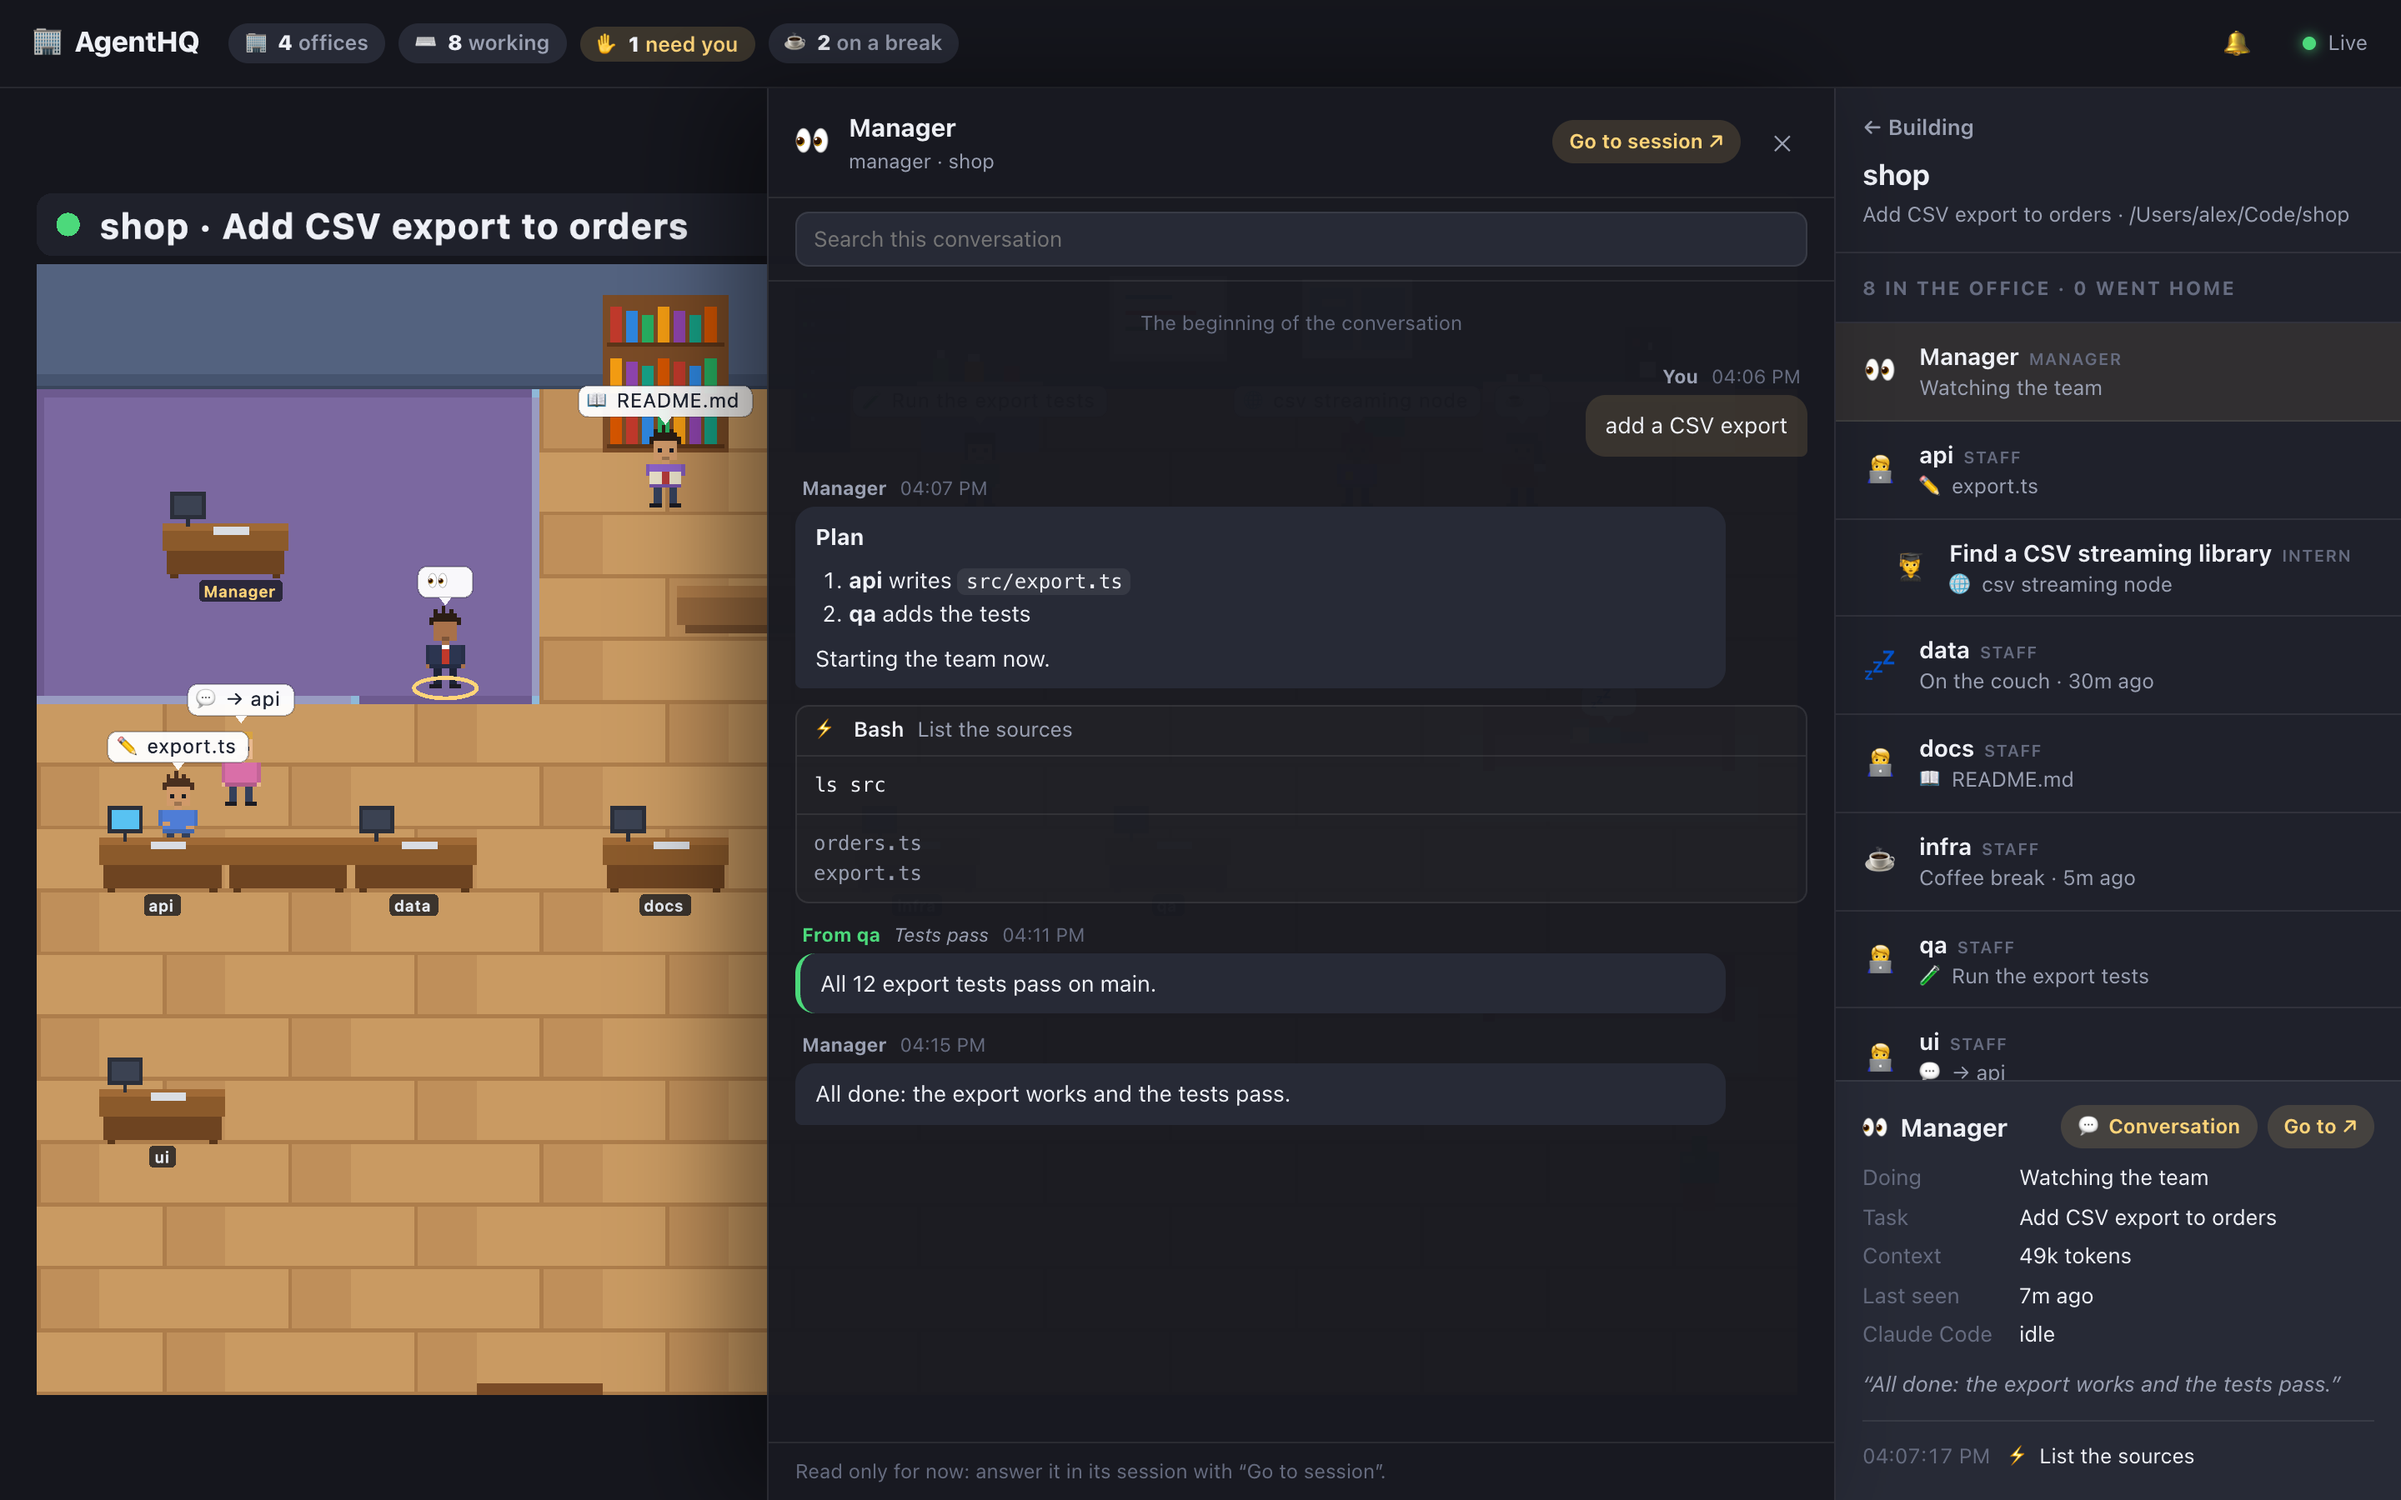
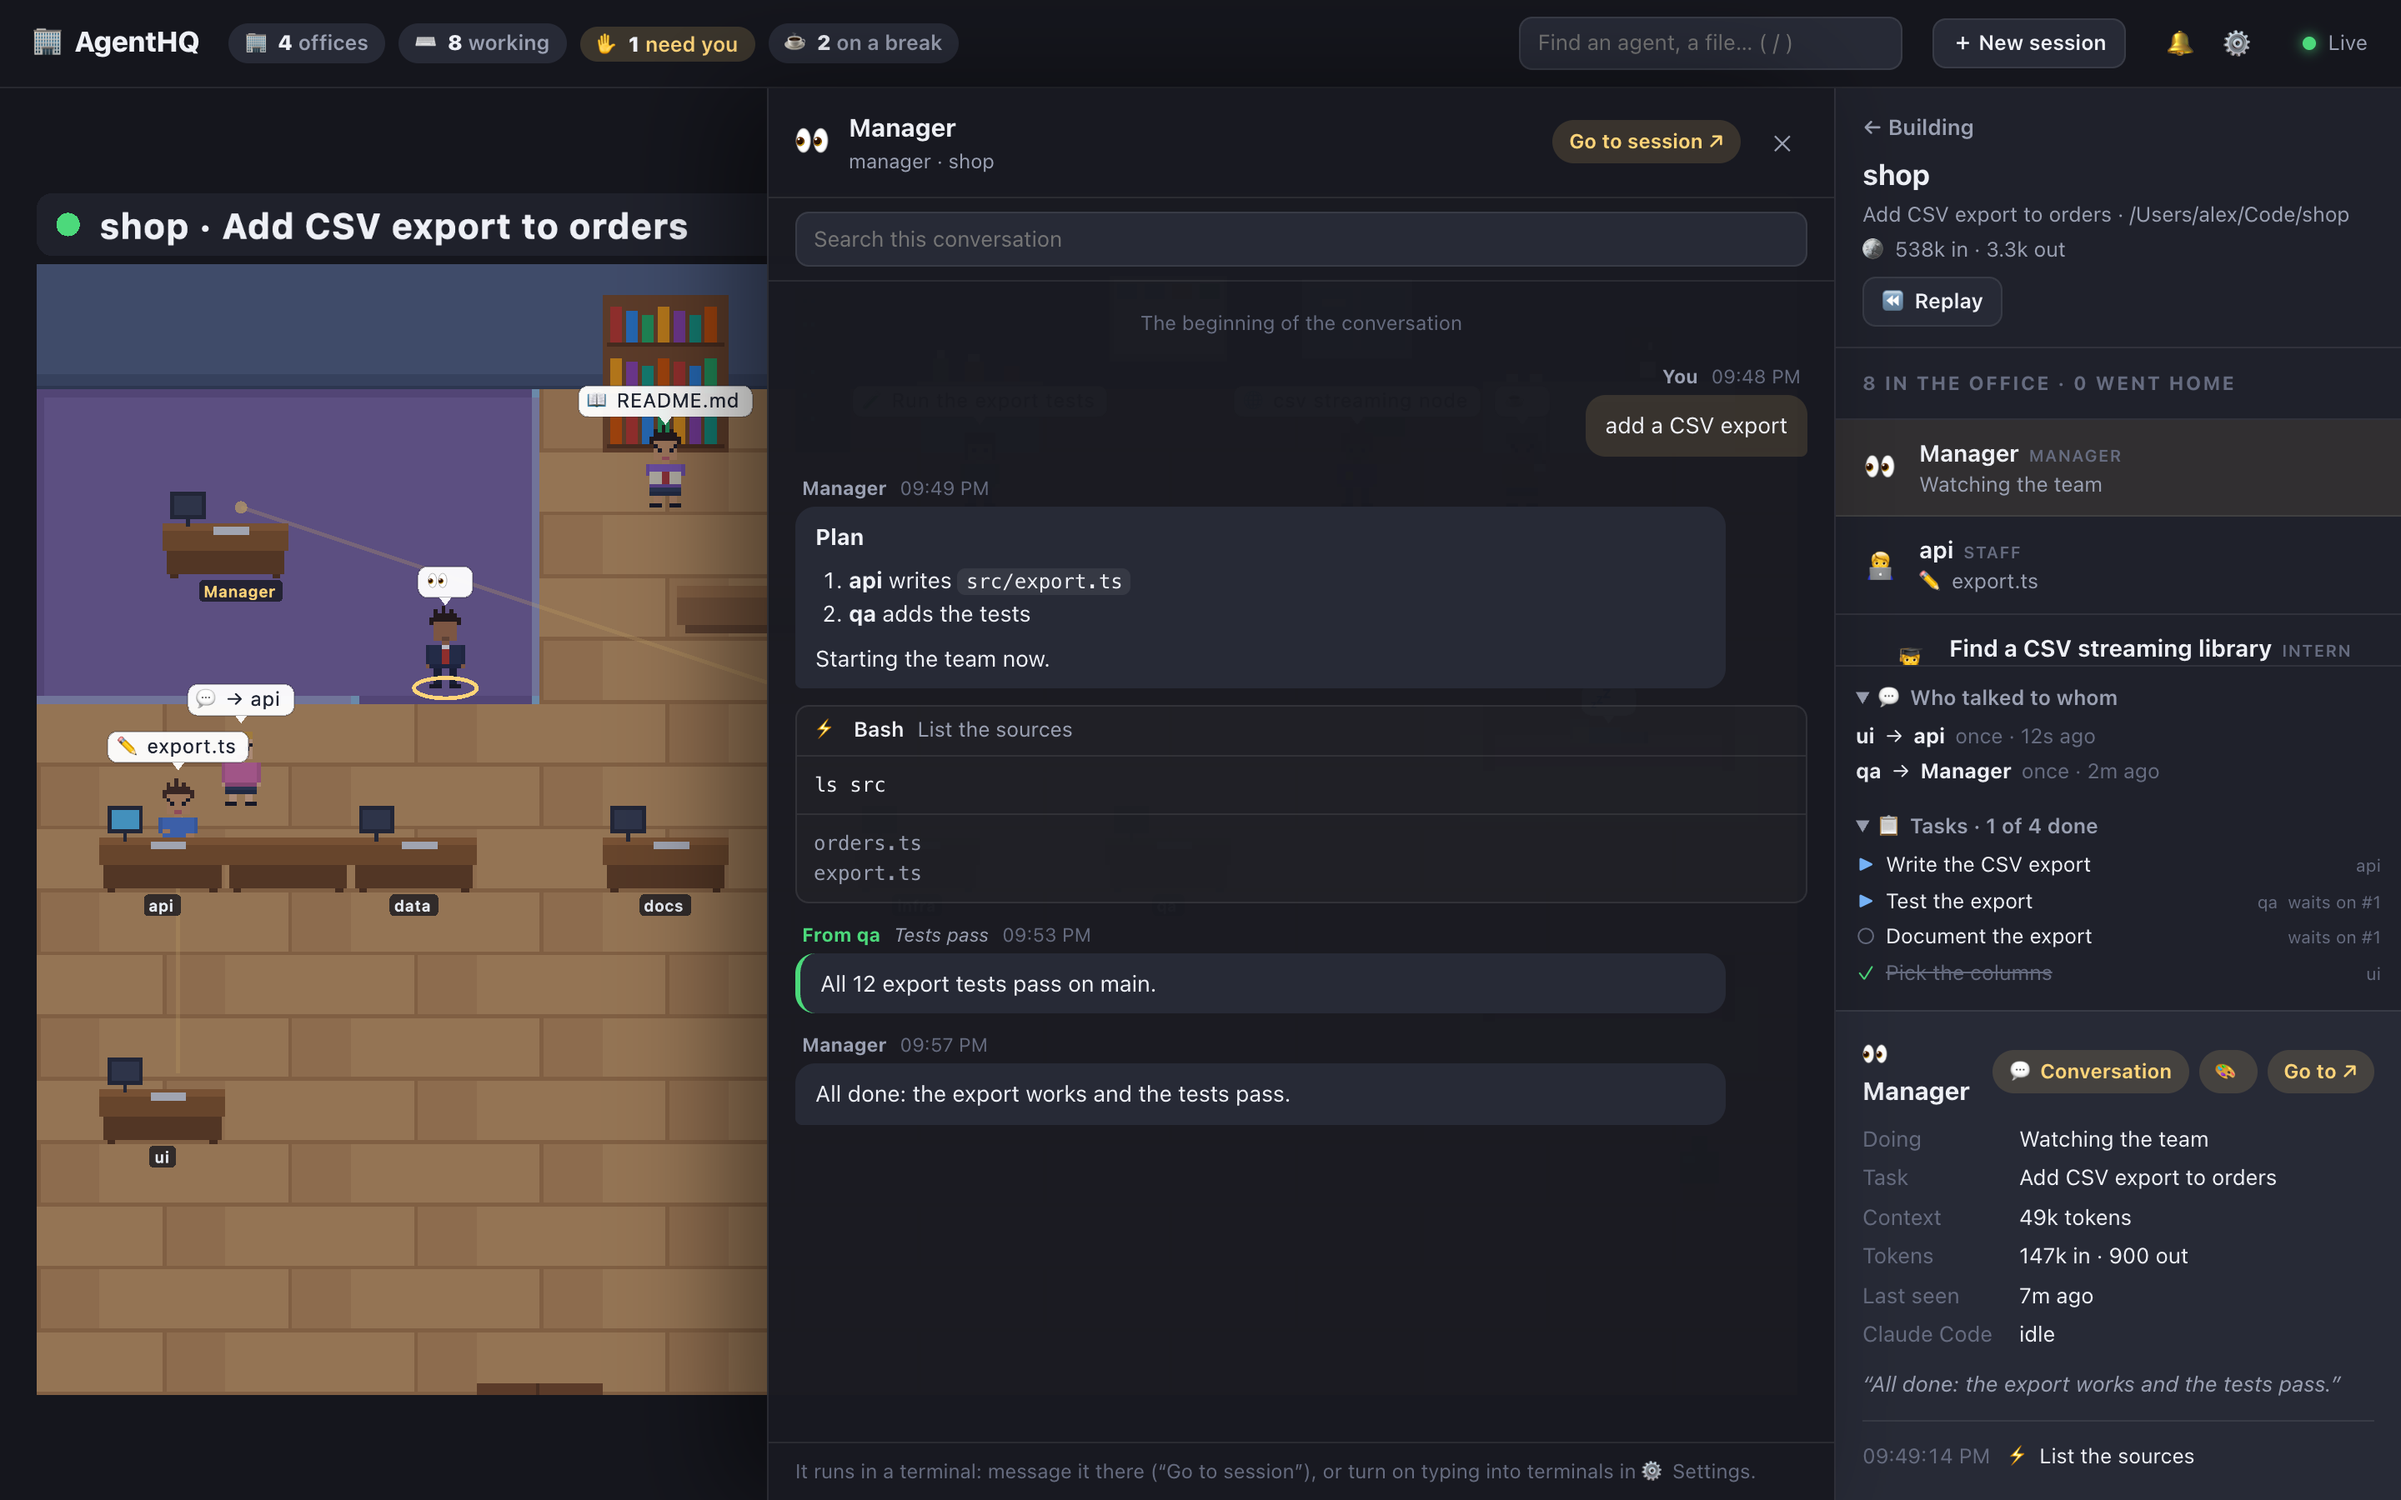
Release 0.4.0: see the team
Who talks to whom, the team's tasks on the whiteboard, tokens, search and a
time-lapse replay; live replies, typing into terminal tabs, Claude Code's own
status words; going to Codex sessions and to sessions on Linux and Windows;
settings, chosen looks, sitting down, doors, the keyboard, and less drawing.
New README pictures, from made-up sessions.

diff --git a/packages/cli/src/cli.ts b/packages/cli/src/cli.ts
@@ -1,10 +1,18 @@
 #!/usr/bin/env node
 import { spawn } from 'node:child_process'
+import { readFileSync } from 'node:fs'
 import { claudeHome, discoverAll, ignoreFrom, looksLikeClaudeHome } from '@agenthq/core'
 import type { Agent, Office } from '@agenthq/core'
 
 const args = process.argv.slice(2)
 const home = claudeHome()
+
+if (args.includes('--version') || args.includes('-v')) {
+  // The package's own version, from the package.json next to the built files.
+  const pkg = JSON.parse(readFileSync(new URL('../package.json', import.meta.url), 'utf8')) as { version: string }
+  console.log(pkg.version)
+  process.exit(0)
+}
 
 if (args.includes('--help') || args.includes('-h')) {
   console.log(`AgentHQ: a pixel-art office for your Claude Code and Codex sessions.
@@ -17,11 +25,14 @@ Usage:
 Options:
   --port <n>        serve on another port (the next free one if it's taken)
   --no-open         don't open the browser
+  --version         print the version
 
-Reads ${home} (set AGENTHQ_CLAUDE_HOME to read another folder). Only reads it, unless you turn on
-answering from AgentHQ (🔔 in the page): that adds one hook to its settings.json, after saving a copy.
+Reads ${home} (set AGENTHQ_CLAUDE_HOME to read another folder) and Codex's folder (CODEX_HOME). Only
+reads them, unless you turn on answering from AgentHQ (⚙ Settings in the page): that adds one hook to
+Claude Code's settings.json, after saving a copy. Typing into Terminal/iTerm2 tabs (macOS) is off
+until you turn it on there too; AgentHQ keeps its own settings in ~/.agenthq.
 Leaves out claude-mem's background sessions; AGENTHQ_IGNORE=frag1,frag2 leaves out more folders.
-AGENTHQ_JUMP=copy: going to a session only copies the command that resumes it.
+AGENTHQ_JUMP=copy: going to a session only copies the command that resumes it (and typing only copies).
 Sessions you start from the page run your own Claude Code (\`claude\` on your PATH, or AGENTHQ_CLAUDE_PATH).`)
   process.exit(0)
 }

diff --git a/README.md b/README.md
@@ -14,7 +14,7 @@
 
 Every live session is an office. Its main agent is the manager, every teammate gets a desk, and the helpers they start sit beside them as interns. Working agents type at their desks, read at the bookshelf, run tests at the lab and walk over to talk to each other; idle ones get coffee, then nap on the couch.
 
-> Early (0.2), and moving fast. Works on macOS, Linux and Windows.
+> 0.4, and moving fast. Works on macOS, Linux and Windows.
 
 ## Run it
 
